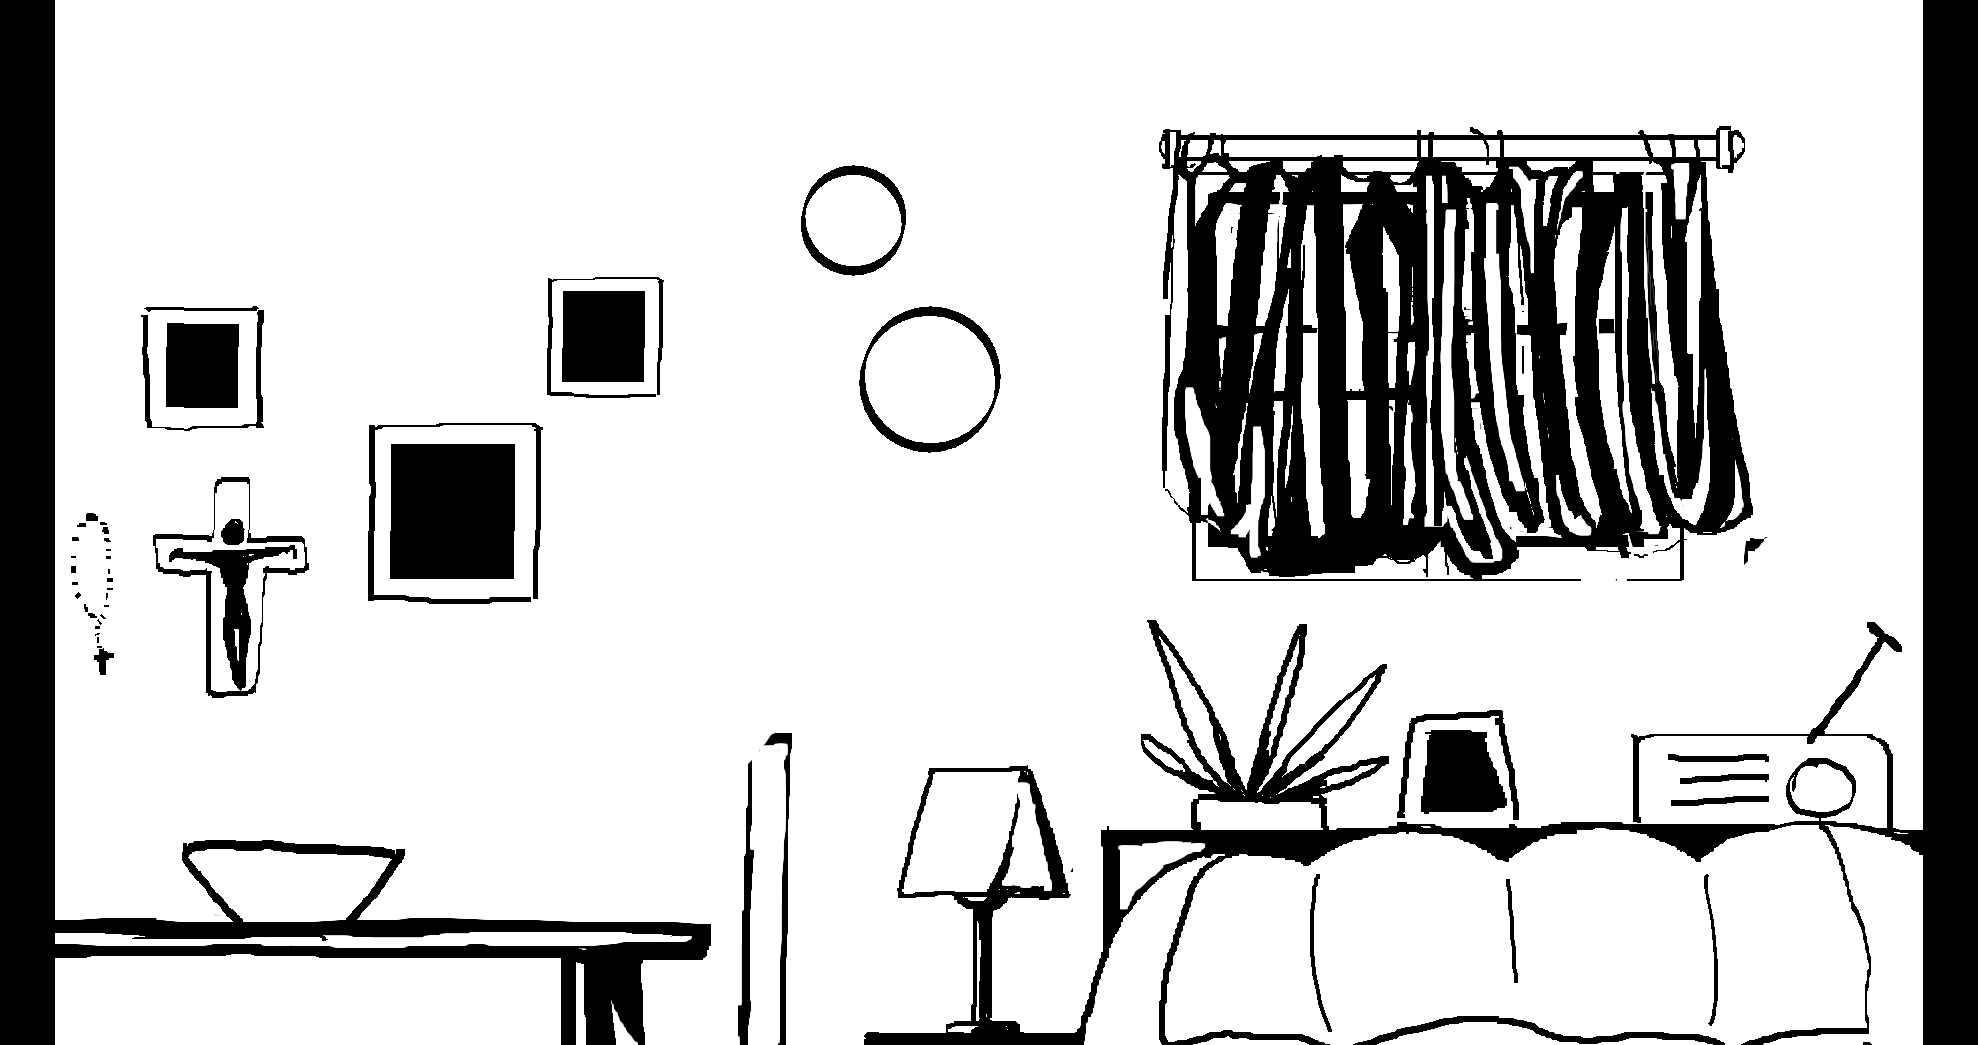
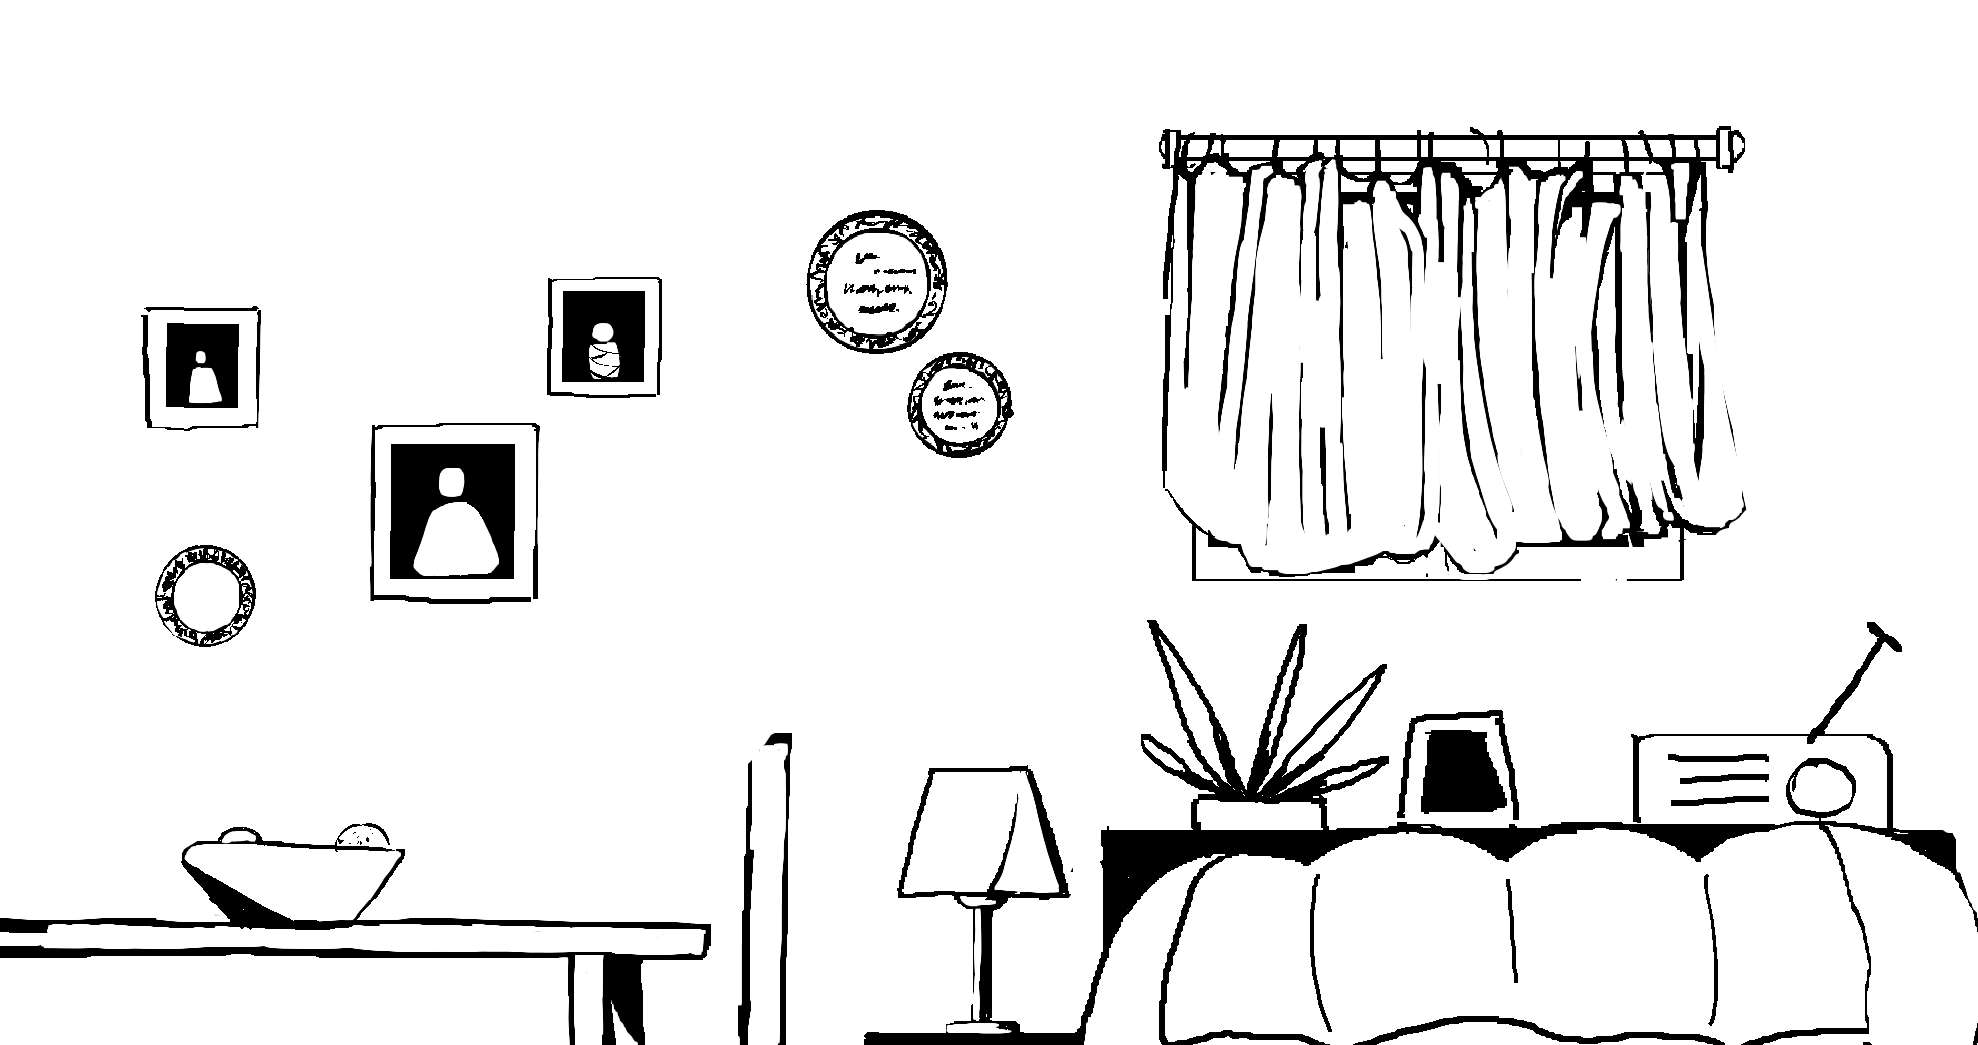
Image changes

diff --git a/style.css b/style.css
@@ -57,7 +57,7 @@ body {
 
 .section-two {
     height: calc(100vh * 6);
-    background-color: rgb(189, 189, 189);
+    background-color: rgb(83, 83, 83);
     position: relative;
     overflow-x: hidden;
 }
@@ -114,15 +114,16 @@ body {
     position: relative;
     z-index: 3;
     overflow-x: hidden;
+    background-image: url('/imagens/Quarto1.png');
 }
 
 .section-two .five {
     min-width: 100vw;
     height: 100vh;
-    background-image: linear-gradient(to right, rgb(184, 115, 153), rgba(0, 0, 0, 1));
     position: relative;
     z-index: 2;
     overflow-x: hidden;
+    background-image: url('/imagens/Quarto2.png');
 }
 
 .section-two .five::after{
@@ -132,7 +133,8 @@ body {
     bottom: 0;
     width: 100%;
     height: 100%;
-    background-image: linear-gradient(to right, rgba(0, 0, 0, 0.6), rgba(0, 0, 0, 1));
+    background-image: linear-gradient(to right, rgba(0, 0, 0, 0), rgba(0, 0, 0, 0.8), rgba(0, 0, 0, 1));
+    z-index: 3;
 }
 
 /* section-two - five - gradient */
@@ -141,10 +143,9 @@ body {
 .section-two .six {
     min-width: 100vw;
     height: 100vh;
-    background-image: linear-gradient(to left, rgb(133, 255, 32), rgba(0, 0, 0, 1));
     position: relative;
-    z-index: 1;
-    overflow-x: hidden;
+    z-index: 2;
+    background-image: url('/imagens/Quarto3.png');
 }
 
 /* section-two - six - gradient */
@@ -156,7 +157,8 @@ body {
     bottom: 0;
     width: 100%;
     height: 100%;
-    background-image: linear-gradient(to left, rgba(0, 0, 0, 0.6), rgba(0, 0, 0, 1));
+    background-image: linear-gradient(to left, rgba(0, 0, 0, 0), rgba(0, 0, 0, 0.8), rgba(0, 0, 0, 1));
+    z-index: 3;
 }
 
 
@@ -192,6 +194,7 @@ body {
 
 .section-two .luisa6 {
     z-index: 1;
+    opacity: 0;
 }
 
 
@@ -352,4 +355,37 @@ body {
     height: 3000px;
     top: 100px;
     left: 0;
+}
+
+/* --------------------- Walls between transitions ----------------------- */
+
+.section-two .right-wall {
+    position: absolute;
+    right: 0;
+    top: 0;
+    height: 100%;
+    width: 60px;
+    background-color: black;
+    z-index: 10;
+}
+
+.section-two .left-wall {
+    position: absolute;
+    left: 0;
+    top: 0;
+    height: 100%;
+    width: 60px;
+    background-color: black;
+    z-index: 10;
+}
+
+.section-two .six .left-wall {
+    position: absolute;
+    left: -15px;
+    top: 0;
+    height: 100%;
+    width: 30px;
+    background-color: black;
+    border-radius: 100%;
+    z-index: 10;
 }

diff --git a/index.html b/index.html
@@ -47,21 +47,33 @@
         <div class="horizontal-container">
             <div class="one">
                 <img class="walking luisa1" src="imagens/LuisaH1_1_W.gif" alt="Anda Luisa">
+                <div class="right-wall">
+                </div>
             </div>
             <div class="two">
                 <img class="walking luisa2" src="imagens/LuisaH1_2_W.gif" alt="Anda Luisa">
+                <div class="right-wall">
+                </div>
             </div>
             <div class="three">
                 <img class="walking luisa3" src="imagens/LuisaH1_3_W.gif" alt="Anda Luisa">
+                <div class="right-wall">
+                </div>
             </div>
             <div class="four">
                 <img class="walking luisa4" src="imagens/LuisaH1_4_W.gif" alt="Anda Luisa">
+                <div class="left-wall">
+                </div>
             </div>
             <div class="five">
                 <img class="walking luisa5" src="imagens/LuisaH1_5_W.gif" alt="Anda Luisa">
+                <div class="left-wall">
+                </div>
             </div>
             <div class="six">
                 <img class="walking luisa6" src="imagens/LuisaH1_1_W.gif" alt="Anda Luisa">
+                <div class="left-wall">
+                </div>
             </div>
         </div>
     </div>

diff --git a/main.js b/main.js
@@ -33,6 +33,7 @@ gsap.fromTo(
       start: "top top",
       end: "bottom bottom",
       scrub: true,
+      smooth: 1
       //markers: true,
     },
   }
@@ -66,6 +67,7 @@ gsap.fromTo(
       start: "top top",
       end: "bottom bottom",
       scrub: true,
+      smooth: 1
       //markers: true,
     },
   }
